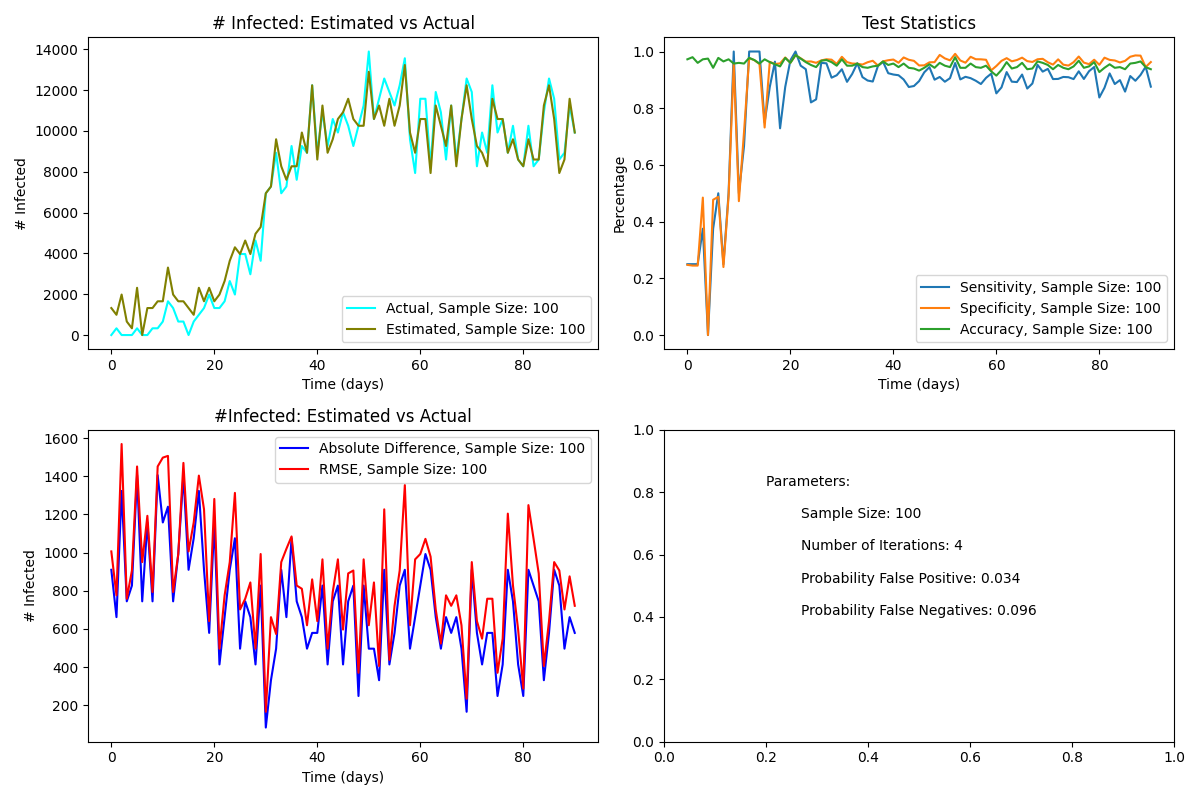
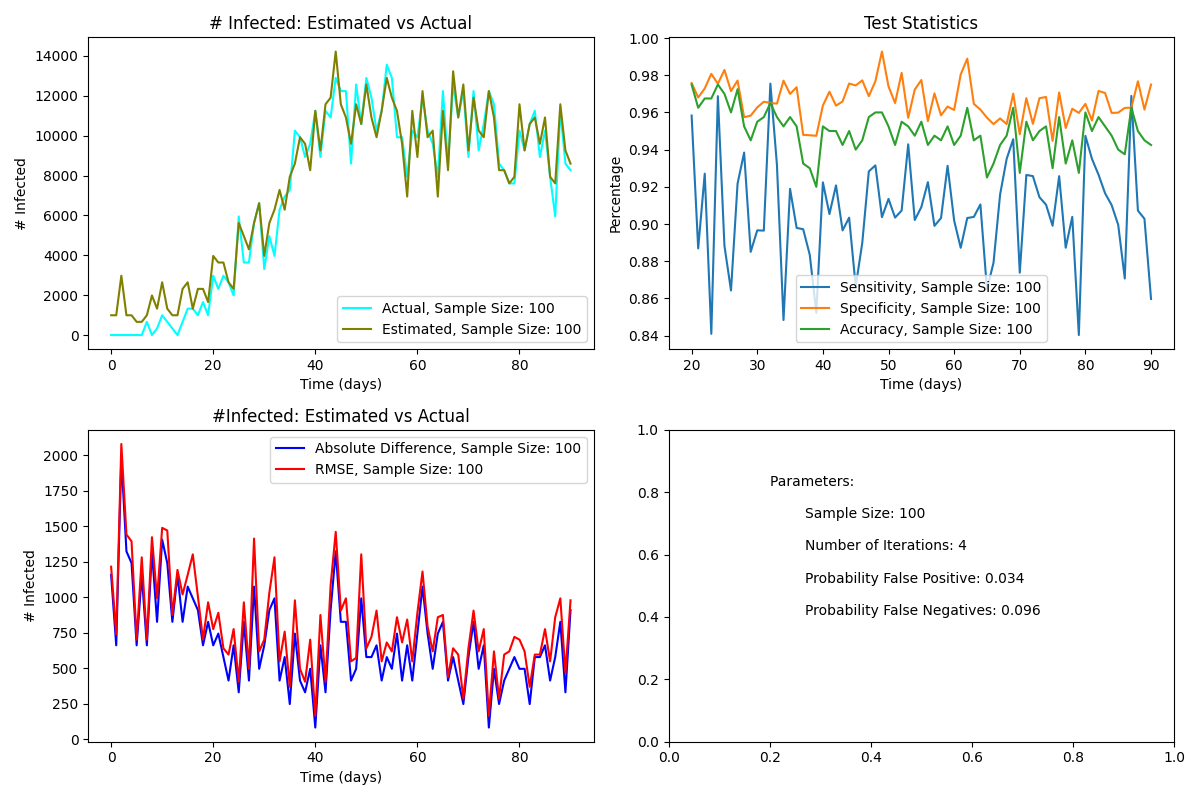
Added calculation of false pos/neg probabilities

diff --git a/gibraltar_ex/imperfect_testing_analysis.py b/gibraltar_ex/imperfect_testing_analysis.py
@@ -4,12 +4,47 @@ import numpy as np
 import matplotlib.pyplot as plt
 
 
+def calculate_imperfect_testing_rates(sensitivity=0.7, specificity=0.95, test_accuracy=0.87):
+    """Function to calculate false positive/negative probabilities using known values
+    for sensitivity, specificity and test accuracy
+
+    Args:
+        sensitivity (float, optional): sensitivity of PCR. Defaults to 0.7.
+        specificity (float, optional): specificity of PCR. Defaults to 0.95.
+        accuracy (float, optional): accuracy of PCR. Defaults to 0.87.
+
+    Returns:
+        dict: container for false positive and negative probabilities
+    """
+
+    # matrix equation variables
+    alpha = sensitivity / (1 - sensitivity)
+    beta = specificity / (1 - specificity)
+    gamma = test_accuracy
+
+    # set-up matrices
+    M = np.array([[alpha, beta], [1, 1]])
+    N = np.array([[gamma], [1 - gamma]])
+    M_inverse = np.linalg.inv(M)
+
+    # peform matrix multiplication
+    result = np.matmul(M_inverse, N)
+
+    # return proababilities
+    false_negative = result[0][0]
+    false_positive = result[1][0]
+
+    return {"Probability False Positive": false_positive,
+            "Probability False Negative": false_negative}
+
+
 def analyse_imperfect_testing(sample_times, 
                               sample_range, 
                               num_samples, 
                               num_iterations, 
                               false_positive=0,
-                              false_negative=0):
+                              false_negative=0,
+                              stats_start_time=0):
     """Function to produce graphs analysing the impact of imperfect testing
 
     Args:
@@ -23,11 +58,25 @@ def analyse_imperfect_testing(sample_times,
         for each sample size
         false_positive (float): probability of false positives
         false_negative (float): probability of false negatives
+        stats_start_time (int): the time from which the statistics are plotted
 
     Returns:
         None
     """
 
+    try:
+
+        start_index = int(stats_start_time)
+
+    except:
+
+        print("Must use integer start time")
+        return None
+    
+    if start_index >= len(sample_times):
+
+        print("Must be a time within sample time range")
+        return None
 
     start_sample_size = sample_range[0]  # Starting sample size
     end_sample_size = sample_range[1]  # Ending sample size
@@ -123,12 +172,9 @@ def analyse_imperfect_testing(sample_times,
         ax3.plot(sample_times, absolute_difference, label=f"Absolute Difference, Sample Size: {sample_size}", color='blue')
         ax3.plot(sample_times, rmse, label=f"RMSE, Sample Size: {sample_size}", color='red')
         #plt.plot(sample_times, average_difference, label="Expected Absolute Difference")
-
-
-
-        ax2.plot(sample_times, av_sensitivity, label=f"Sensitivity, Sample Size: {sample_size}")
-        ax2.plot(sample_times, av_specificity, label=f"Specificity, Sample Size: {sample_size}")
-        ax2.plot(sample_times, av_test_accuracy, label=f"Accuracy, Sample Size: {sample_size}")
+        ax2.plot(sample_times[start_index :], av_sensitivity[start_index :], label=f"Sensitivity, Sample Size: {sample_size}")
+        ax2.plot(sample_times[start_index :], av_specificity[start_index :], label=f"Specificity, Sample Size: {sample_size}")
+        ax2.plot(sample_times[start_index :], av_test_accuracy[start_index :], label=f"Accuracy, Sample Size: {sample_size}")
 
 
         ax1.set_xlabel('Time (days)')
@@ -172,11 +218,20 @@ postprocess = epios.PostProcess(time_data=time_data, demo_data=demo_data)
 
 sample_times = [t for t in range(0, 91)]
 
-test = analyse_imperfect_testing(sample_times=sample_times, 
-                                             sample_range=[100, 500], 
-                                             num_samples=2, 
-                                             num_iterations=4, 
-                                             false_positive=0.034,
-                                             false_negative=0.096)
+r = calculate_imperfect_testing_rates()
+
+print(r)
+
+run_testing = False
+
+if run_testing:
+
+    test = analyse_imperfect_testing(sample_times=sample_times, 
+                                                sample_range=[100, 500], 
+                                                num_samples=2, 
+                                                num_iterations=4, 
+                                                false_positive=0.034,
+                                                false_negative=0.096,
+                                                stats_start_time=20)
 
 
